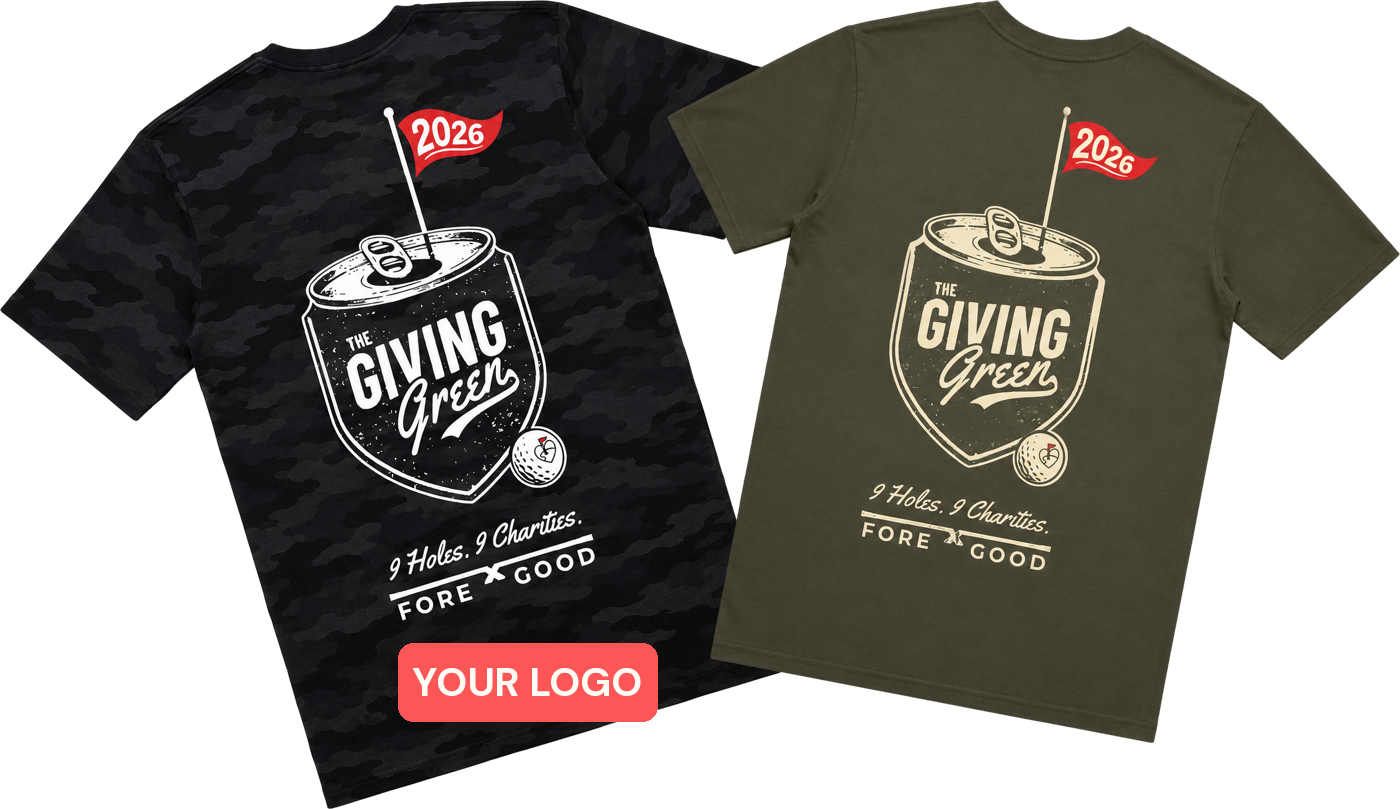
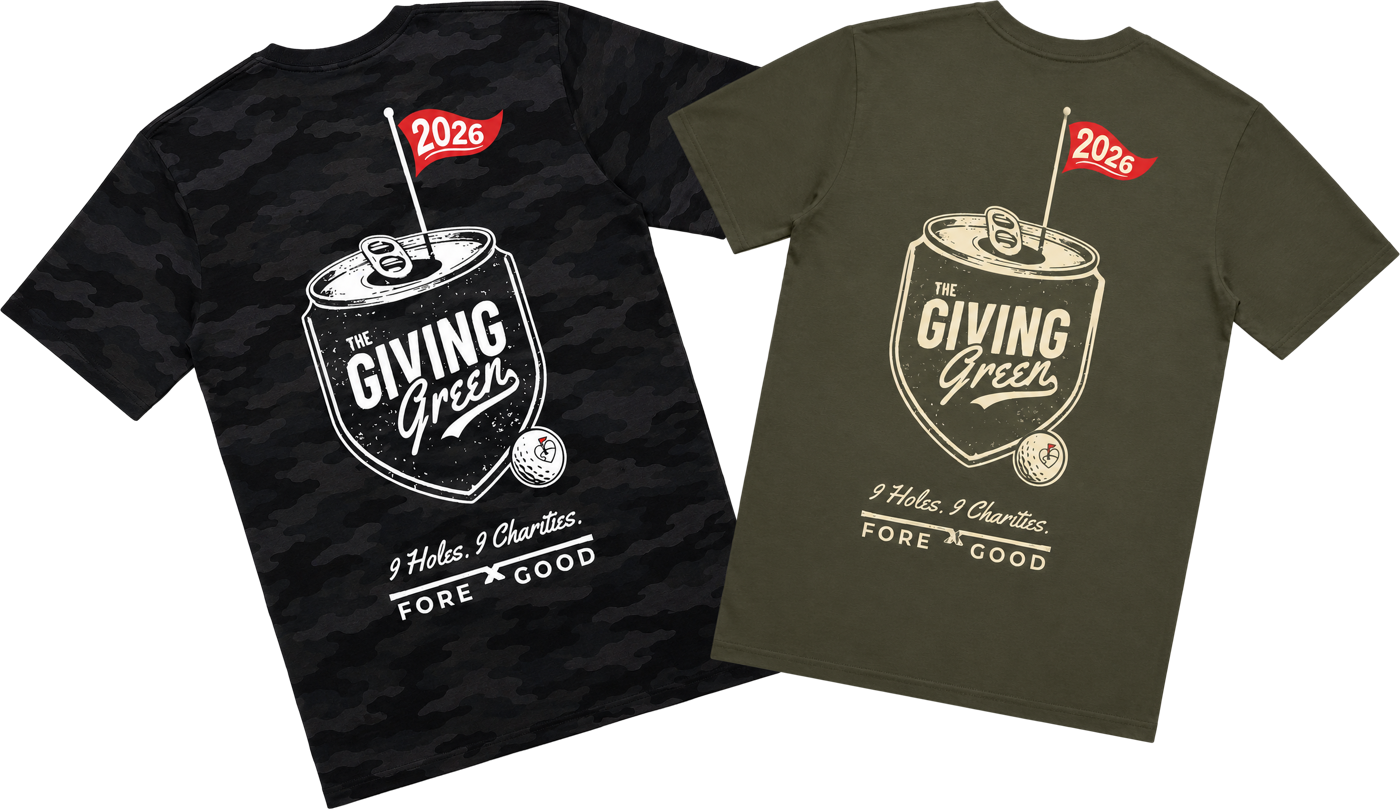
Add files via upload

Changed region(s): [[0.2764, 0.7726, 0.4914, 0.8962]]

diff --git a/sponsor.html b/sponsor.html
@@ -63,9 +63,9 @@ section{padding:84px 0}
 
 /* hero */
 .hero{position:relative;text-align:center;padding:110px 20px 96px;overflow:hidden}
-.hero-bg{position:absolute;inset:0;background:url('hero.webp') center/cover;opacity:.42}
+.hero-bg{position:absolute;inset:0;z-index:0;background:url('hero.webp') center/cover;opacity:.42}
 .hero-bg::after{content:'';position:absolute;inset:0;background:linear-gradient(180deg,rgba(20,40,34,.55),rgba(20,40,34,.75))}
-.hero > *{position:relative}
+.hero > *:not(.hero-bg){position:relative;z-index:1}
 .hero h1{font-size:clamp(2.7rem,7.6vw,5.2rem);margin-top:18px;line-height:.92}
 .hero .sub{display:block;font-size:1.25rem;margin-top:16px}
 .datebar{display:inline-block;border:1px solid var(--fairway);padding:12px 26px;margin-top:26px;font-size:.82rem;font-weight:700;letter-spacing:.16em;text-transform:uppercase;color:var(--cream)}
@@ -157,9 +157,9 @@ section{padding:84px 0}
 
 /* close */
 .close{text-align:center;position:relative;overflow:hidden;padding:110px 20px}
-.close-bg{position:absolute;inset:0;background:url('strip1.webp') center/cover;opacity:.38}
+.close-bg{position:absolute;inset:0;z-index:0;background:url('strip1.webp') center/cover;opacity:.38}
 .close-bg::after{content:'';position:absolute;inset:0;background:linear-gradient(180deg,rgba(20,40,34,.6),rgba(20,40,34,.78))}
-.close > *{position:relative}
+.close > *:not(.close-bg){position:relative;z-index:1}
 .close h2{font-size:clamp(2.4rem,7vw,4.4rem)}
 .close .sub{display:block;margin-top:14px;font-size:1.15rem}
 .close .hero-cta{margin-top:34px}